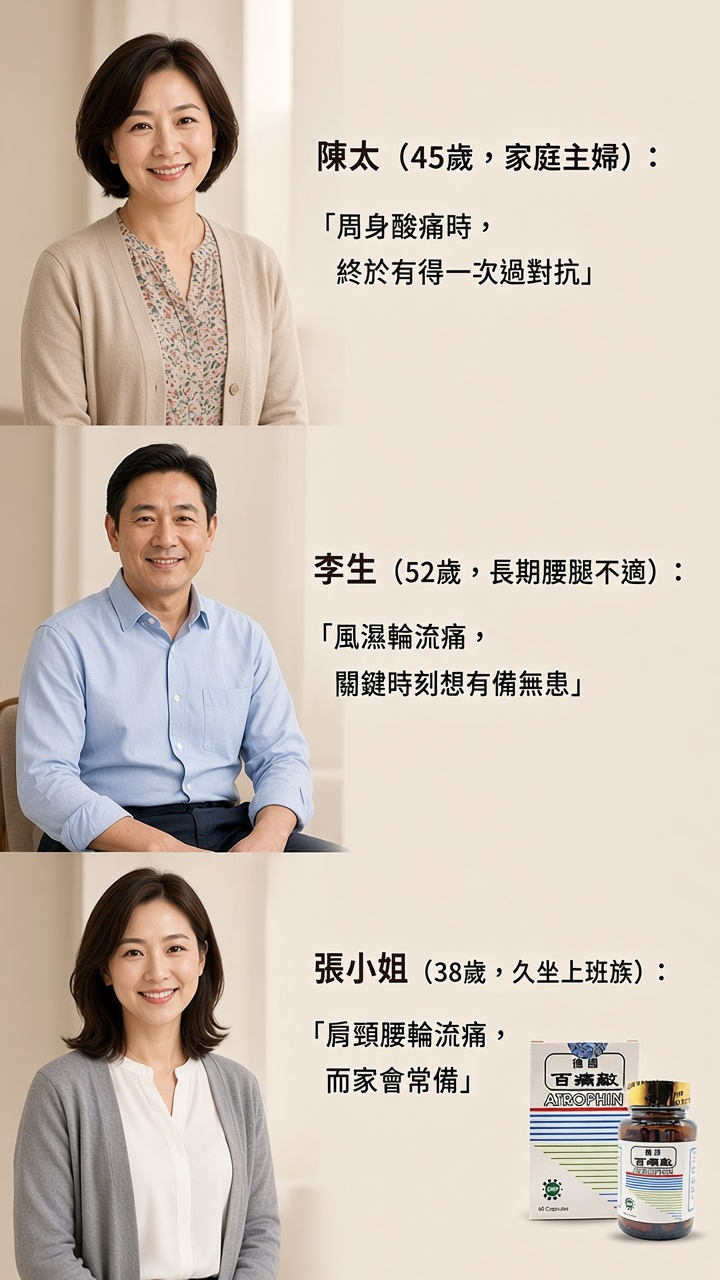
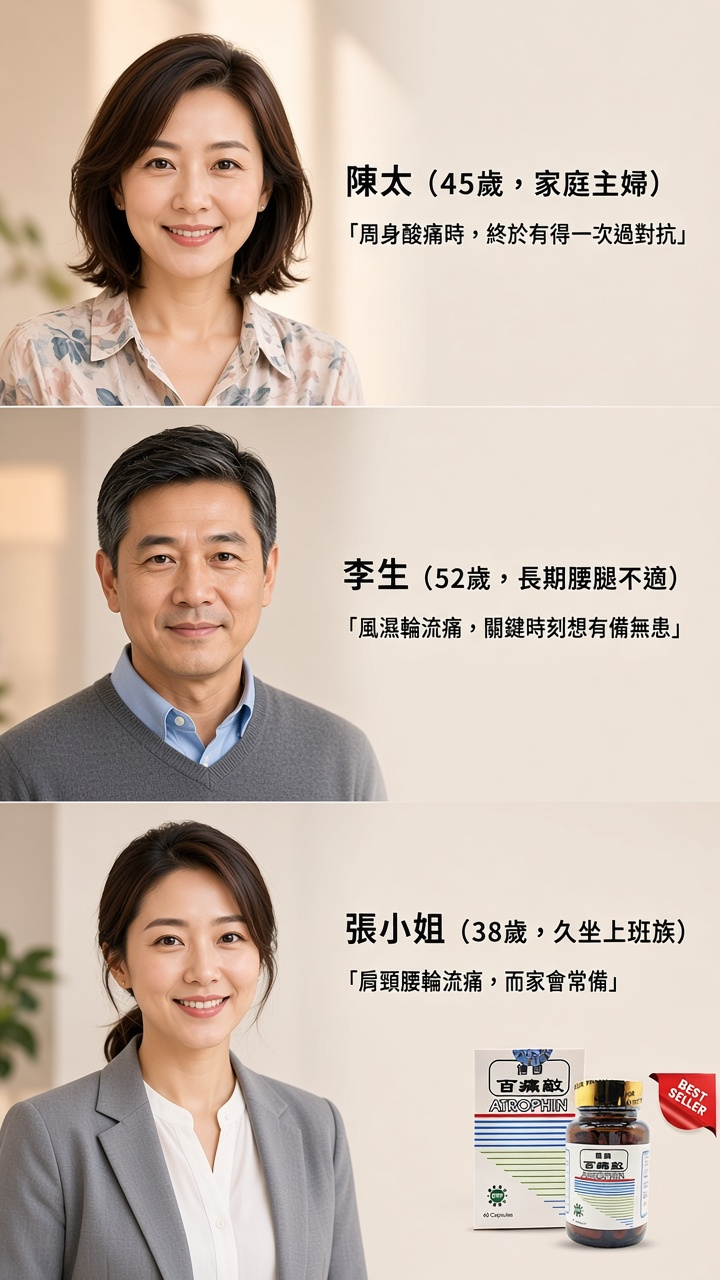
fix baitongdi vg6-05: ordinary users not celebs
Replace panel 5 only — 陳太/李生/張小姐 with distinct faces.
vg6-01..04 and 06 untouched.

diff --git a/products/baitongdi-60caps-k0019.html b/products/baitongdi-60caps-k0019.html
@@ -117,7 +117,7 @@
         <img src="../assets/products/baitongdi-60caps-k0019/detail/vg6-04.jpg" alt="痛!!是身體在喊救命!!・百痛敵・周身痛一次對抗" width="720" height="1280" loading="lazy">
       </figure>
       <figure class="pdp-detail-fig">
-        <img src="../assets/products/baitongdi-60caps-k0019/detail/vg6-05.jpg" alt="用家分享：陳太・李生・張小姐談百痛敵" width="720" height="1280" loading="lazy">
+        <img src="../assets/products/baitongdi-60caps-k0019/detail/vg6-05.jpg" alt="用家分享：陳太・李生・張小姐談百痛敵（普通用家，非明星）" width="720" height="1280" loading="lazy">
       </figure>
       <figure class="pdp-detail-fig">
         <img src="../assets/products/baitongdi-60caps-k0019/detail/vg6-06.jpg" alt="為何選擇百痛敵而非單一部位藥／只擦外用油" width="720" height="1280" loading="lazy">
